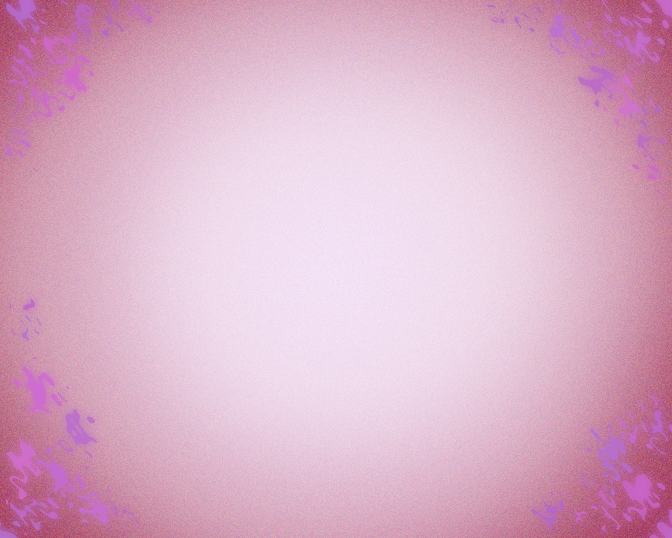
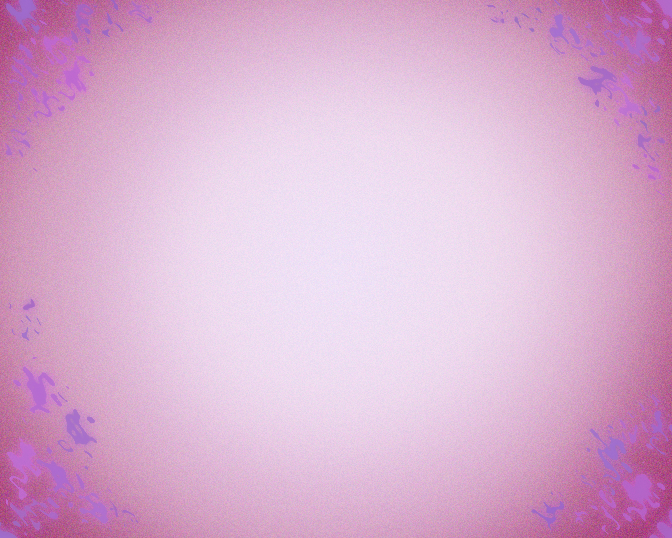
adicionei titulo e uns portais mais roxos pra combinar

diff --git a/NOVO/shooter_tut13.py b/NOVO/shooter_tut13.py
@@ -729,8 +729,8 @@ intro_fade = ScreenFade(1, BLACK, 4)
 death_fade = ScreenFade(2, BLACK, 4)
 
 # create buttons
-start_button = button.Button(SCREEN_WIDTH // 2, SCREEN_HEIGHT // 4, start_img, 1)
-exit_button = button.Button(SCREEN_WIDTH // 2, SCREEN_HEIGHT // 2, exit_img, 1)
+start_button = button.Button(SCREEN_WIDTH // 2, SCREEN_HEIGHT // 2, start_img, 1)
+exit_button = button.Button(SCREEN_WIDTH // 2, SCREEN_HEIGHT // 1.4, exit_img, 1)
 restart_button = button.Button(SCREEN_WIDTH // 2 - 135, SCREEN_HEIGHT // 2 - 50, restart_img, 1)
 
 # create sprite groups
